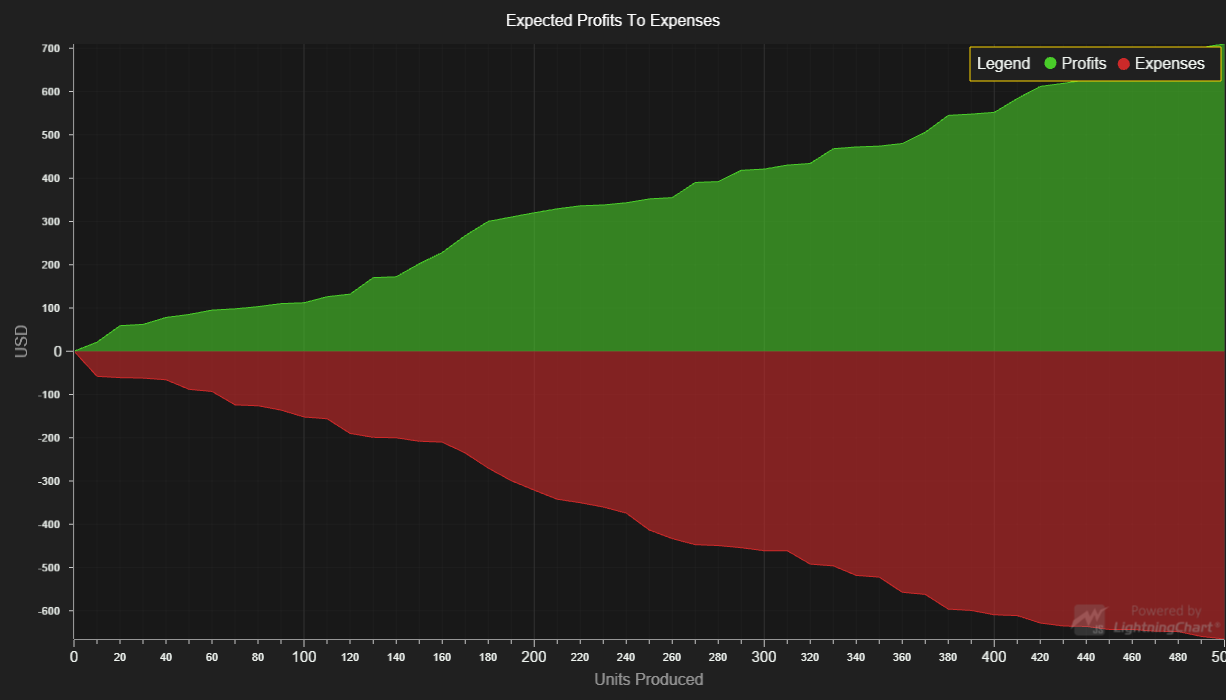
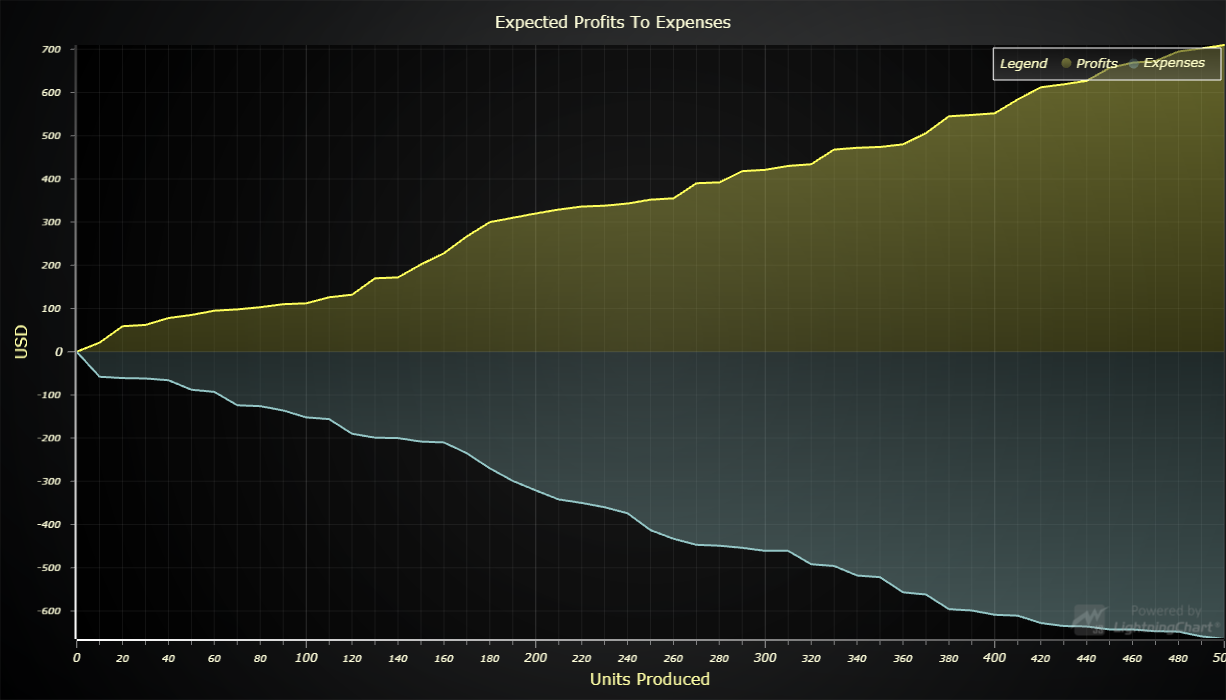
Update LCJS version

diff --git a/src/index.js b/src/index.js
@@ -12,41 +12,32 @@ const lcjs = require('@arction/lcjs')
 const {
     lightningChart,
     AreaSeriesTypes,
-    ColorPalettes,
-    SolidFill,
-    UIOrigins,
     UIElementBuilders,
     LegendBoxBuilders,
     UIButtonPictures,
     Themes
 } = lcjs
 
-// ----- Cache styles -----
-const palette = ColorPalettes.fullSpectrum(10)
-const solidFills = [3, 0].map(palette).map(color => new SolidFill({ color }))
-const opaqueFills = solidFills.map(fill => fill.setA(150))
-
 // Create a XY Chart.
 const xyChart = lightningChart().ChartXY({
-    // theme: Themes.dark 
+    // theme: Themes.darkGold 
 })
     .setTitle('Expected Profits To Expenses')
     .setPadding({ right: 2 })
 
 // Create a LegendBox as part of the chart.
 const legend = xyChart.addLegendBox(LegendBoxBuilders.HorizontalLegendBox)
+    // Dispose example UI elements automatically if they take too much space. This is to avoid bad UI on mobile / etc. devices.
+    .setAutoDispose({
+        type: 'max-width',
+        maxWidth: 0.80,
+    })
 
 // ---- Add multiple Area series with different baselines and direction. ----
-// Create semi-transparent red area to draw points above the baseline.
 const areaProfit = xyChart.addAreaSeries({ type: AreaSeriesTypes.Positive })
-    .setFillStyle(opaqueFills[0])
-    .setStrokeStyle(stroke => stroke.setFillStyle(solidFills[0]))
     .setName('Profits')
 
-// Create semi-transparent orange area to draw points below the baseline.
 const areaExpense = xyChart.addAreaSeries({ type: AreaSeriesTypes.Negative })
-    .setFillStyle(opaqueFills[1])
-    .setStrokeStyle(stroke => stroke.setFillStyle(solidFills[1]))
     .setName('Expenses')
 
 // Set Axis nicely

diff --git a/webpack.config.js b/webpack.config.js
@@ -69,7 +69,8 @@ module.exports = {
         }),
         new CopyWebpackPlugin({
             patterns: [
-                { from: './assets/**/*', to: './examples/assets', flatten: true, noErrorOnMissing: true }
+                { from: './assets/**/*', to: './examples/assets', flatten: true, noErrorOnMissing: true },
+                { from: './node_modules/@arction/lcjs/dist/resources', to: 'resources', noErrorOnMissing: true },
             ]
         })
     ]

diff --git a/README.md b/README.md
@@ -93,10 +93,10 @@ Direct developer email support can be purchased through a [Support Plan][4] or b
 © Arction Ltd 2009-2020. All rights reserved.
 
 
-[XY cartesian chart]: https://www.arction.com/lightningchart-js-api-documentation/v3.0.1/classes/chartxy.html
-[Area series]: https://www.arction.com/lightningchart-js-api-documentation/v3.0.1/classes/chartxy.html#addareaseries
-[Area type]: https://www.arction.com/lightningchart-js-api-documentation/v3.0.1/globals.html#areaseriestypes
-[Positive Area series]: https://www.arction.com/lightningchart-js-api-documentation/v3.0.1/classes/areaseriespositive.html
-[Negative Area series]: https://www.arction.com/lightningchart-js-api-documentation/v3.0.1/classes/areaseriesnegative.html
-[Color palettes]: https://www.arction.com/lightningchart-js-api-documentation/v3.0.1/globals.html#colorpalettes
+[XY cartesian chart]: https://www.arction.com/lightningchart-js-api-documentation/v3.1.0/classes/chartxy.html
+[Area series]: https://www.arction.com/lightningchart-js-api-documentation/v3.1.0/classes/chartxy.html#addareaseries
+[Area type]: https://www.arction.com/lightningchart-js-api-documentation/v3.1.0/globals.html#areaseriestypes
+[Positive Area series]: https://www.arction.com/lightningchart-js-api-documentation/v3.1.0/classes/areaseriespositive.html
+[Negative Area series]: https://www.arction.com/lightningchart-js-api-documentation/v3.1.0/classes/areaseriesnegative.html
+[Color palettes]: https://www.arction.com/lightningchart-js-api-documentation/v3.1.0/globals.html#colorpalettes
 
